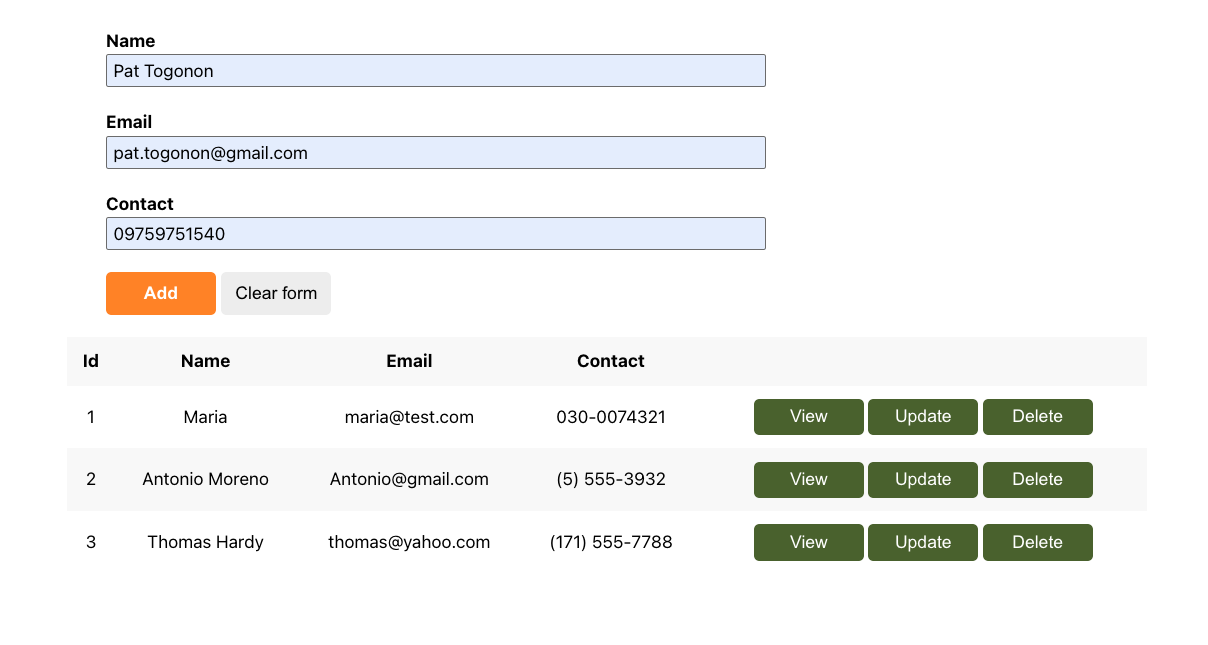
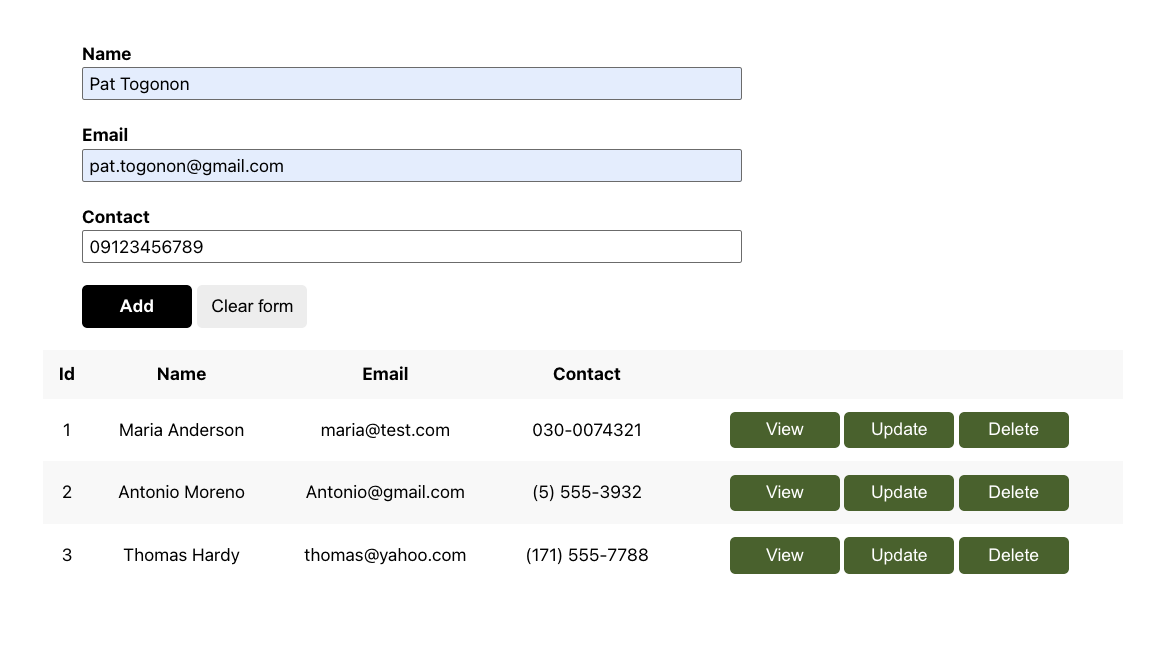
Update README

diff --git a/README.md b/README.md
@@ -22,7 +22,7 @@ As shown from the User Interface section above.
 
 <h3>2. Create</h3>
 
-The form has on each input tags and upon the submission of the form.
+The form has validations on each input tag and upon the submission of the form.
 
 <img src="/images/4-add-in-new-contact.png" />
 
@@ -54,11 +54,22 @@ And when they click on Delete and the contact is successfully deleted, a confirm
 
 <h2>Others</h2>
 
+<h4>Errors</h4>
 The app also handles errors (with a modal as well), page not found, network error, and when a contact id is invalid.
 
+<h4>Form Validation</h4>
+The app uses regex to test the user inputs.
+
+And if the contact number or email is already in use, the user won't be able to add this in. 
+
+<h4>Single Contact View</h4>
 When user clicks on View button on the landing page, they can check out the contact details as follows:
 
 <img src="/images/6-view-contact-details.png" />
+
+When the list is available, the app takes the contact details from it. 
+
+But when the list is unavailable (e.g. due to page refresh), the app fetches the contact details by id from the Java-backend api.
 
 Thank you!
 
